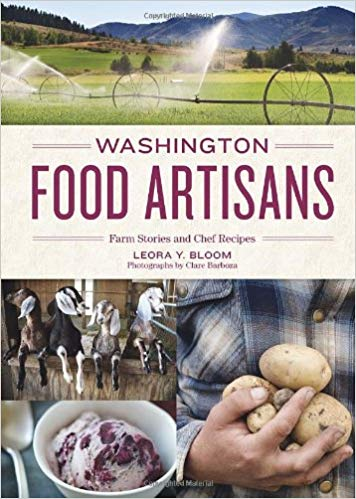
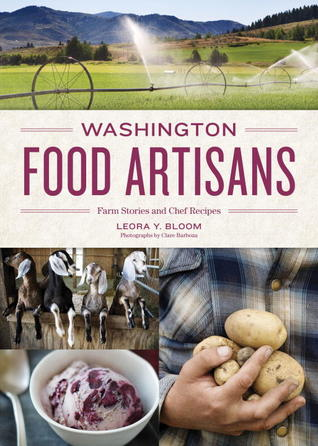
Changed images to try and improve resolution and display. Fixed card wrapping issue so three per line appear.

diff --git a/final/index.html b/final/index.html
@@ -66,8 +66,8 @@
                   <p class="card-text">
                     Tex description goes here.
                   </p>
-                  <a href="https://www.worldcat.org/title/boat-a-whale-and-a-walrus-menus-and-stories/oclc/951150378&referer=brief_results" class="btn btn-primary" style="font-size:14px"
-                    >Find a Copy</a
+                  <a href="https://seattle.bibliocommons.com/item/show/3023335030" class="btn btn-primary" style="font-size:14px"
+                    >Read more</a
                   >
                   <a href="#" class="card-link p-2" style="font-size:14px"
                     >View site</a
@@ -80,21 +80,21 @@
             <div class="card mt-5 shadow">
               <div class="card">
                 <img
-                  src="../final/images/Thailand .jpg"
+                  src="../final/images/FlavorFlours.jpg"
                   class="card-img-top"
                   alt="..."
                 />
 
                 <div class="card-body">
-                  <h5 class="card-title">Thailand</h5>
+                  <h5 class="card-title">Flavor Flours</h5>
                   <h6 class="card-subtitle mb-2 text-muted">
-                    A cookbook of regional Thai food.
+                    A cookbook of ____.
                   </h6>
                   <p class="card-text">
                     Text description goes here.
                   </p>
-                  <a href="https://www.worldcat.org/title/thailand-the-cookbook/oclc/937619467&referer=brief_results" class="btn btn-primary" style="font-size:14px"
-                    >Find a Copy</a
+                  <a href="#" class="btn btn-primary" style="font-size:14px"
+                    >Read more</a
                   >
                   <a href="#" class="card-link p-2" style="font-size:14px"
                     >View site</a
@@ -120,7 +120,7 @@
                     Additional text description goes here.
                   </p>
                   <a href="#" class="btn btn-primary" style="font-size:14px"
-                    >Find a Copy</a
+                    >Read more</a
                   >
                   <a href="#" class="card-link p-2" style="font-size:14px"
                     >View site</a
@@ -135,20 +135,74 @@
                 <div class="card mt-5 shadow">
                   <div class="card">
                     <img
-                      src="../final/images/WholeLife.jpeg"
+                      src="../final/images/Ottolenghi.jpg"
                       class="card-img-top"
                       alt="..."
                     />
                     <div class="card-body">
-                      <h5 class="card-title">The Whole Life Nutrition Cookbook</h5>
+                      <h5 class="card-title">OTTOLENGHI</h5>
                       <h6 class="card-subtitle mb-2 text-muted">
                         A cookbook for healthy living
                       </h6>
                       <p class="card-text">
                         Tex description goes here.
                       </p>
-                      <a href="https://www.worldcat.org/title/whole-life-nutrition-cookbook-over-300-delicious-whole-foods-recipes-including-gluten-free-dairy-free-soy-free-and-egg-free-dishes/oclc/877092522&referer=brief_results" class="btn btn-primary" style="font-size:14px"
-                        >Find a Copy</a
+                      <a href="#" class="btn btn-primary" style="font-size:14px"
+                        >Read more</a
+                      >
+                      <a href="#" class="card-link p-2" style="font-size:14px"
+                        >View site</a
+                      >
+                    </div>
+                  </div>
+                </div>
+              </div>
+              <div class="col-12 col-sm-6 col-md-4">
+                <div class="card mt-5 shadow">
+                  <div class="card">
+                    <img
+                      src="../final/images/Bento.png"
+                      class="card-img-top"
+                      alt="..."
+                    />
+    
+                    <div class="card-body">
+                      <h5 class="card-title">A Country Cooks Kitchen</h5>
+                      <h6 class="card-subtitle mb-2 text-muted">
+                        A cookbook of ____.
+                      </h6>
+                      <p class="card-text">
+                        Text description goes here.
+                      </p>
+                      <a href="" class="btn btn-primary" style="font-size:14px"
+                        >Read more</a
+                      >
+                      <a href="#" class="card-link p-2" style="font-size:14px"
+                        >View site</a
+                      >
+                    </div>
+                  </div>
+                </div>
+              </div>
+              <div class="col-12 col-sm-6 col-md-4">
+                <div class="card mt-5 shadow">
+                  <div class="card">
+                    <img
+                      src="../final/images/Country.jpg"
+                      class="card-img-top"
+                      alt="..."
+                    />
+    
+                    <div class="card-body">
+                      <h5 class="card-title">Thailand</h5>
+                      <h6 class="card-subtitle mb-2 text-muted">
+                        A cookbook of regional Thai food.
+                      </h6>
+                      <p class="card-text">
+                        Text description goes here.
+                      </p>
+                      <a href="" class="btn btn-primary" style="font-size:14px"
+                        >Read more</a
                       >
                       <a href="#" class="card-link p-2" style="font-size:14px"
                         >View site</a
